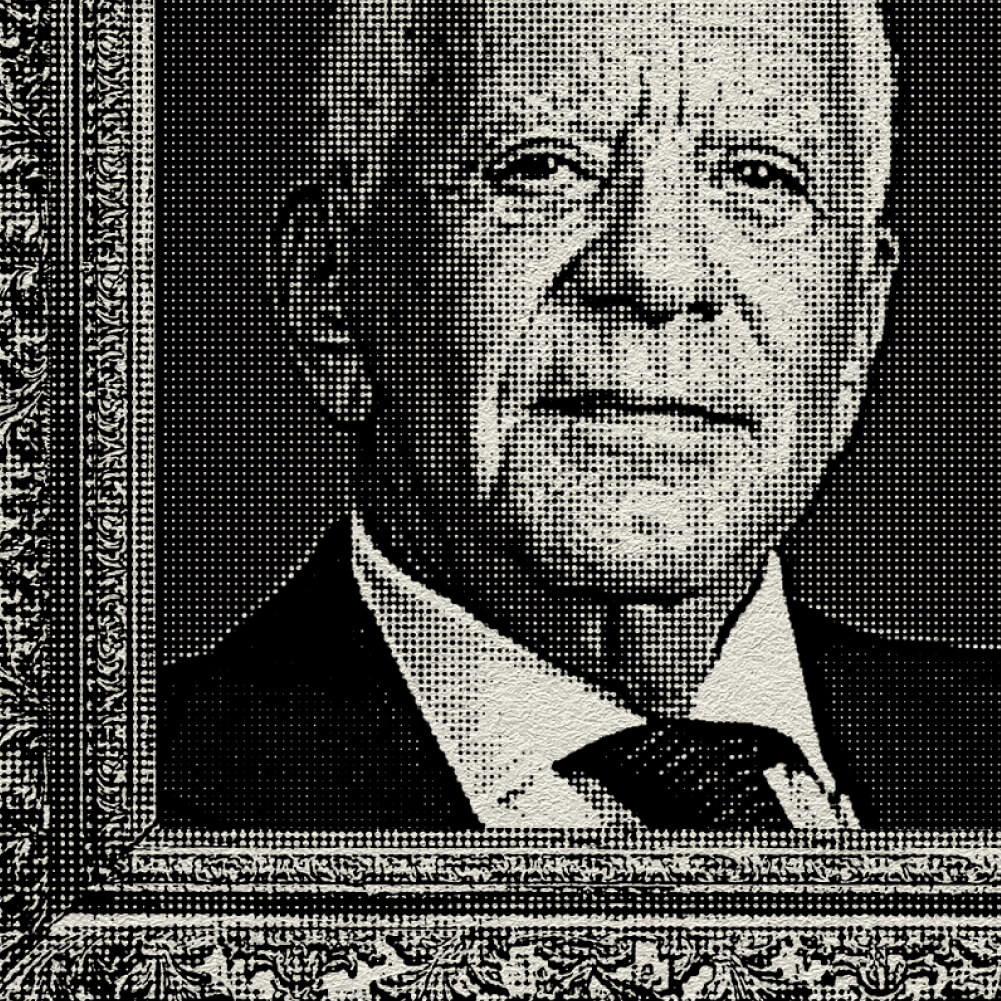
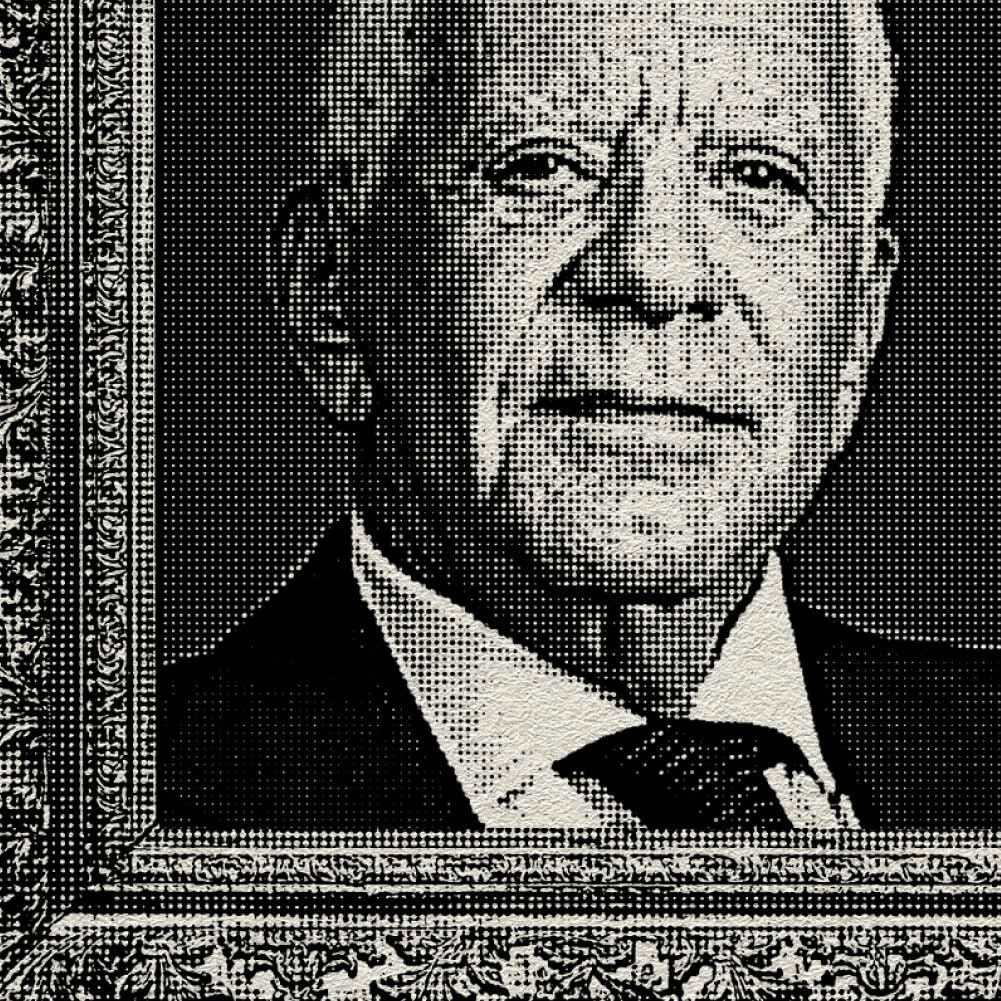
smaller

diff --git a/index.html b/index.html
@@ -136,7 +136,7 @@
         </div>
       </div>
     </section>
-    <img src="ui/assets/images/home/trophies.png" class="w-100p" alt="">
+    <img src="ui/assets/images/home/trophies.jpg" class="w-100p" alt="">
     <section id="" class="jsSection jsBuzz p-2 ms-p-8 t-a-c white-bg">
       <!-- populated by script.js -->
     </section>
